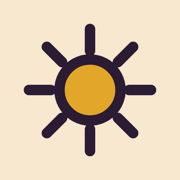
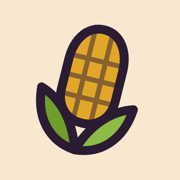
Corn theme: story cob, corn mark, kernel dividers
The hero shows a corn cob in which each kernel is one story and links
to it; darker gold means stronger evidence. The sun mark becomes a
corn cob, the wave dividers become kernel rows, the main button and
card shadows use corn colours, and the tab icon and link-preview
image match.

Claude-Session: https://claude.ai/code/session_01Ts6euTGNZG4fyBVVpUkAkK

Changed region(s): [[0.1111, 0.1111, 0.8889, 0.8889]]

diff --git a/index.html b/index.html
@@ -38,10 +38,11 @@
   --green:#4F7A22; --green-soft:#DCEBC3; --green-ink:#355514;
   --rust:#C8402E; --rust-soft:#FFD5CC; --rust-ink:#8E2A1D;
   --sky:#2F7FB8;
+  --husk:#6E9E2E; --husk-2:#8DBB45; --kern-a:#D98E0B; --kern-b:#EDB530; --kern-c:#F7DA7C;
   --dark:#2B1B33; --dark-text:#FFF1DC; --dark-muted:#D7BFAF; --dark-line:rgba(255,241,220,.22); --dark-border:transparent;
   --bar-off:#EFDDC0;
-  --shadow:6px 6px 0 var(--accent);
-  --shadow-hover:9px 9px 0 var(--purple);
+  --shadow:6px 6px 0 var(--mustard);
+  --shadow-hover:9px 9px 0 var(--husk);
   --r-lg:34px 14px 34px 14px; --r-md:22px 10px 22px 10px;
 }
 :root[data-theme="dark"]{
@@ -55,8 +56,8 @@
   --rust:#E86A55; --rust-soft:#4A221B; --rust-ink:#FFB3A3;
   --dark:#2E1F38; --dark-text:#FFF1DC; --dark-muted:#D7BFAF; --dark-line:rgba(255,241,220,.2); --dark-border:#4A365A;
   --bar-off:#3E2C4A;
-  --shadow:6px 6px 0 var(--accent);
-  --shadow-hover:9px 9px 0 var(--purple);
+  --shadow:6px 6px 0 var(--mustard);
+  --shadow-hover:9px 9px 0 var(--husk);
 }
 
 /* ---------- base ---------- */
@@ -84,15 +85,15 @@ dfn{font-style:normal;font-weight:800;color:var(--ink);background:var(--mustard-
 .hidden{display:none !important}
 .sr{position:absolute;width:1px;height:1px;overflow:hidden;clip:rect(0 0 0 0);white-space:nowrap}
 .ico{width:16px;height:16px;flex:none}
-.wave{display:block;width:100%;height:24px;color:var(--ink)}
+.wave{display:block;width:100%;height:22px;color:var(--ink)}
 
 /* ---------- buttons ---------- */
-.btn{display:inline-flex;align-items:center;justify-content:center;gap:8px;height:48px;padding:0 24px;border-radius:999px;background:var(--accent);color:var(--ink);font:inherit;font-size:15px;font-weight:800;border:2px solid var(--ink);box-shadow:3px 3px 0 var(--ink);cursor:pointer;text-decoration:none;white-space:nowrap;transition:transform .12s,box-shadow .12s,background .12s}
-.btn:hover{background:var(--mustard);color:var(--ink);transform:translate(-1px,-1px);box-shadow:5px 5px 0 var(--ink)}
+.btn{display:inline-flex;align-items:center;justify-content:center;gap:8px;height:48px;padding:0 24px;border-radius:999px;background:var(--mustard);color:var(--ink);font:inherit;font-size:15px;font-weight:800;border:2px solid var(--ink);box-shadow:3px 3px 0 var(--ink);cursor:pointer;text-decoration:none;white-space:nowrap;transition:transform .12s,box-shadow .12s,background .12s}
+.btn:hover{background:var(--husk-2);color:var(--ink);transform:translate(-1px,-1px);box-shadow:5px 5px 0 var(--ink)}
 .btn.ghost{background:var(--paper);color:var(--ink)}
 .btn.ghost:hover{background:var(--purple-soft);color:var(--ink)}
-.btn.dark{background:var(--ink);color:var(--bg);border-color:var(--ink);box-shadow:3px 3px 0 var(--accent)}
-.btn.dark:hover{background:var(--purple);color:#FFF1DC;box-shadow:5px 5px 0 var(--accent)}
+.btn.dark{background:var(--ink);color:var(--bg);border-color:var(--ink);box-shadow:3px 3px 0 var(--mustard)}
+.btn.dark:hover{background:var(--green);color:#FFF1DC;box-shadow:5px 5px 0 var(--mustard)}
 .btn.light{background:var(--mustard);color:#2B1B33;border-color:#2B1B33;box-shadow:3px 3px 0 #FFF1DC}
 .btn.light:hover{background:#FFF1DC;color:#2B1B33;box-shadow:5px 5px 0 #FFF1DC}
 .btn.sm{height:40px;padding:0 18px;font-size:14px}
@@ -103,9 +104,9 @@ dfn{font-style:normal;font-weight:800;color:var(--ink);background:var(--mustard-
 .topbar .wrap{display:flex;align-items:center;justify-content:space-between;gap:16px 24px;min-height:72px;padding-top:12px;padding-bottom:12px;flex-wrap:wrap}
 .wordmark{display:inline-flex;align-items:center;gap:10px;color:var(--ink);font-family:"Fraunces",Georgia,serif;font-weight:900;font-variation-settings:"opsz" 144,"SOFT" 100,"WONK" 1;font-size:24px;letter-spacing:-.01em}
 .wordmark:hover{color:var(--accent-ink)}
-.wordmark svg{width:32px;height:32px;flex:none;animation:spin 24s linear infinite}
-@keyframes spin{to{transform:rotate(360deg)}}
-@media (prefers-reduced-motion:reduce){.wordmark svg{animation:none}}
+.wordmark svg{width:34px;height:34px;flex:none;transform:rotate(14deg);transition:transform .2s}
+.wordmark:hover svg{transform:rotate(-8deg)}
+@media (prefers-reduced-motion:reduce){.wordmark svg{transition:none}}
 .topnav{display:flex;gap:4px;flex-wrap:wrap}
 .topnav a{color:var(--ink);font-size:15px;font-weight:700;padding:8px 14px;border-radius:999px;border:2px solid transparent}
 .topnav a:hover{border-color:var(--ink);background:var(--mustard-soft);color:var(--ink)}
@@ -113,19 +114,27 @@ dfn{font-style:normal;font-weight:800;color:var(--ink);background:var(--mustard-
 
 /* ---------- hero ---------- */
 .hero{padding:72px 0 56px;position:relative;overflow:hidden}
-.sun{position:absolute;right:-140px;top:-200px;width:620px;height:620px;border-radius:50%;pointer-events:none;background:
-  radial-gradient(circle,var(--mustard) 0 34%,transparent 35%),
-  repeating-conic-gradient(from 0deg,var(--accent) 0deg 9deg,transparent 9deg 22.5deg);opacity:.75}
-.sun::after{content:"";position:absolute;inset:0;border-radius:50%;background:radial-gradient(circle,transparent 0 33%,var(--bg) 34% 100%);opacity:0}
 .hero .wrap{position:relative}
-.hero-inner{display:grid;grid-template-columns:minmax(0,7fr) minmax(0,5fr);gap:20px 56px;align-items:end}
-.hero-inner .eyebrow{grid-column:1 / -1}
-.hero-inner h1{grid-column:1;grid-row:2 / span 2}
-.hero-inner .sub{grid-column:2;grid-row:2;align-self:end}
-.hero-inner .cta{grid-column:2;grid-row:3}
-@media (max-width:900px){.hero-inner{display:flex;flex-direction:column;align-items:flex-start;gap:22px;max-width:880px}.sun{width:380px;height:380px;right:-140px;top:-120px}}
+.hero-inner{display:grid;grid-template-columns:minmax(0,1fr) auto;gap:24px 64px;align-items:center}
+.hero-copy{display:flex;flex-direction:column;align-items:flex-start;gap:22px;min-width:0}
+.cob-wrap{display:flex;flex-direction:column;align-items:center;gap:16px;padding:0 36px 0 20px}
+.cob{--k:var(--kd,28px);display:flex;flex-direction:column;align-items:center;position:relative;padding-top:calc(var(--k)*.9);transform:rotate(9deg);transform-origin:50% 100%}
+.krow{display:flex;justify-content:center}
+.kern{box-sizing:border-box;display:block;width:var(--k);height:calc(var(--k)*.88);margin:-1px;border:2px solid var(--ink);border-radius:44% 44% 48% 48%;background:var(--kern-c);position:relative;transition:transform .12s}
+.kern::after{content:"";position:absolute;left:18%;top:16%;width:26%;height:20%;border-radius:50%;background:rgba(255,255,255,.55)}
+.kern.gA{background:var(--kern-a)}
+.kern.gB{background:var(--kern-b)}
+.kern.gC{background:var(--kern-c)}
+.kern.blank{background:var(--paper);border-style:dashed;border-color:var(--muted)}
+.kern.blank::after{display:none}
+a.kern:hover,a.kern:focus-visible{transform:scale(1.3);z-index:3;box-shadow:3px 3px 0 var(--ink);outline:none}
+.cob .silk{position:absolute;top:0;left:50%;width:calc(var(--k)*3.2);height:calc(var(--k)*1.5);transform:translateX(-50%);overflow:visible;stroke:var(--accent-ink)}
+.cob .husk{display:block;width:calc(var(--k)*var(--cols)*1.78);height:auto;margin-top:calc(var(--k)*var(--cols)*-.6);position:relative;z-index:1;overflow:visible;pointer-events:none}
+.cob-cap{margin:0;color:var(--muted);text-align:center;line-height:1.7}
+@media (max-width:900px){.hero-inner{grid-template-columns:minmax(0,1fr)}.cob-wrap{padding:8px 0 0}.cob{--k:min(var(--kd,26px),26px)}}
+@media (prefers-reduced-motion:reduce){.kern{transition:none}}
 .hero h1{font-size:clamp(44px,6.4vw,80px)}
-.hero h1 em{color:var(--accent);display:inline-block;transform:rotate(-2deg)}
+.hero h1 em{color:var(--green);display:inline-block;transform:rotate(-2deg)}
 .hero .sub{font-size:clamp(17px,1.3vw,19px);line-height:1.55;color:var(--lead);max-width:640px;margin:0;font-weight:600}
 .hero .cta{display:flex;gap:12px;flex-wrap:wrap}
 
@@ -350,11 +359,11 @@ noscript .box{padding:16px;margin:16px}
 </head>
 <body>
 <a class="skip" href="#app">Skip to content</a>
-<svg width="0" height="0" style="position:absolute" aria-hidden="true"><defs><pattern id="wavepat" width="48" height="24" patternUnits="userSpaceOnUse"><path d="M0 12 Q12 0 24 12 T48 12" fill="none" style="stroke:var(--ink)" stroke-width="3" stroke-linecap="round"/></pattern></defs></svg>
+<svg width="0" height="0" style="position:absolute" aria-hidden="true"><defs><pattern id="wavepat" width="26" height="22" patternUnits="userSpaceOnUse"><rect x="2" y="2" width="22" height="18" rx="8" style="fill:var(--kern-b);stroke:var(--ink)" stroke-width="2.5"/><ellipse cx="9" cy="7.5" rx="3" ry="1.8" fill="#fff" opacity=".5"/></pattern></defs></svg>
 <header class="topbar">
   <div class="wrap">
     <a class="wordmark" href="#/" aria-label="Monocorn, home">
-      <svg viewBox="0 0 32 32" aria-hidden="true"><g style="stroke:var(--ink)" stroke-width="2" stroke-linecap="round"><path d="M16 2v5M16 25v5M2 16h5M25 16h5M6.1 6.1l3.5 3.5M22.4 22.4l3.5 3.5M6.1 25.9l3.5-3.5M22.4 9.6l3.5-3.5"/></g><circle cx="16" cy="16" r="7" style="fill:var(--mustard);stroke:var(--ink)" stroke-width="2"/></svg>
+      <svg viewBox="0 0 32 32" aria-hidden="true"><path d="M16 2.5c3.7 0 6.2 3.4 6.2 8.3v6.6c0 4-2.5 6.6-6.2 6.6s-6.2-2.6-6.2-6.6v-6.6c0-4.9 2.5-8.3 6.2-8.3z" style="fill:var(--mustard);stroke:var(--ink)" stroke-width="2"/><path d="M10.4 9.6h11.2M9.9 14h12.2M10.2 18.4h11.6M14 3.6v19.8M18 3.6v19.8" fill="none" style="stroke:var(--ink)" stroke-width="1.1" opacity=".5"/><path d="M16 30.2c-5.8-.5-10-4.6-10.6-11.9 4.2 1.3 8.4 5 10.6 11.9z" style="fill:var(--husk);stroke:var(--ink)" stroke-width="2" stroke-linejoin="round"/><path d="M16 30.2c5.8-.5 10-4.6 10.6-11.9-4.2 1.3-8.4 5-10.6 11.9z" style="fill:var(--husk-2);stroke:var(--ink)" stroke-width="2" stroke-linejoin="round"/></svg>
       Monocorn
     </a>
     <nav class="topnav" aria-label="Site">
@@ -7231,6 +7240,43 @@ const SEARCH_ICO = `<svg class="ico" viewBox="0 0 16 16" fill="none" aria-hidden
 const WAVE = `<svg class="wave" aria-hidden="true"><rect width="100%" height="100%" fill="url(#wavepat)"/></svg>`;
 const PLUS_ICO = `<svg viewBox="0 0 40 40" fill="none" aria-hidden="true"><circle cx="20" cy="20" r="18" stroke="var(--line-strong)" stroke-width="1.5"/><path d="M20 12v16M12 20h16" stroke="var(--accent)" stroke-width="1.8" stroke-linecap="round"/></svg>`;
 
+// The story cob: one kernel per story, oldest at the base, newest near the tip.
+// Rows alternate between cols and cols - 1 kernels, which gives the brick pattern of a real cob.
+function cobHtml() {
+  const n = STORIES.length;
+  const cols = Math.max(5, Math.round(Math.sqrt(n / 3)));
+  const sizes = [];            // row sizes from the base upwards
+  const rowSize = j => (j % 2 === 0 ? cols : cols - 1);
+  sizes.push(rowSize(0), rowSize(1));   // two base rows sit inside the husk and hold no story
+  let cap = 0;
+  while (cap < n) { const z = rowSize(sizes.length); sizes.push(z); cap += z; }
+  const last = sizes[sizes.length - 1];
+  for (const d of [1, 2]) if (last - d >= 2) sizes.push(last - d);   // the tip
+  const k = Math.max(14, Math.min(34, Math.round(440 / sizes.length)));
+  let i = 0;
+  const rows = sizes.map((z, j) => {
+    let out = "";
+    for (let c = 0; c < z; c++) {
+      if (j < 2) { out += `<span class="kern gC"></span>`; continue; }
+      const s = STORIES[i++];
+      if (!s) { out += `<span class="kern blank"></span>`; continue; }
+      const label = `${esc(s.name)}: ${esc(s.sticker)}`;
+      out += k >= 24
+        ? `<a class="kern g${s.evidence}" href="#/story/${esc(s.slug)}" title="${label}" tabindex="-1"></a>`
+        : `<span class="kern g${s.evidence}" title="${label}"></span>`;
+    }
+    return `<div class="krow">${out}</div>`;
+  }).reverse().join("");
+  return `<div class="cob-wrap">
+    <div class="cob" style="--kd:${k}px;--cols:${cols}" aria-hidden="true">
+      <svg class="silk" viewBox="0 0 110 52" fill="none" stroke-width="3" stroke-linecap="round"><path d="M55 50C52 34 40 30 34 14"/><path d="M55 50C56 32 58 22 52 4"/><path d="M55 50C60 34 72 30 76 12"/><path d="M55 50C48 38 30 40 20 28"/><path d="M55 50C64 38 82 40 92 26"/></svg>
+      ${rows}
+      <svg class="husk" viewBox="0 0 320 190"><g style="stroke:var(--ink)" stroke-width="5" stroke-linejoin="round" stroke-linecap="round"><path style="fill:var(--husk)" d="M160 186C96 186 40 150 22 84C14 54 16 26 6 6C58 20 100 58 124 104C140 134 152 160 160 186Z"/><path style="fill:var(--husk)" d="M160 186C224 186 280 150 298 84C306 54 304 26 314 6C262 20 220 58 196 104C180 134 168 160 160 186Z"/><path style="fill:var(--husk-2)" d="M160 188C128 176 104 146 98 104C96 88 100 72 96 58C128 72 150 98 160 130C170 98 192 72 224 58C220 72 224 88 222 104C216 146 192 176 160 188Z"/><path fill="none" stroke-width="3.5" d="M160 186C158 164 156 148 160 130"/><path fill="none" stroke-width="3" d="M40 60C66 86 96 120 128 160M280 60C254 86 224 120 192 160"/></g></svg>
+    </div>
+    <p class="cob-cap mono">One kernel per story.<br>Darker gold means stronger evidence.</p>
+  </div>`;
+}
+
 function cardHtml(s) {
   const when = (s.outcomeLabel.split(",")[1] || s.outcomeLabel).trim();
   return `<a class="card" href="#/story/${esc(s.slug)}" aria-label="${esc(s.name)}: open the full story">
@@ -7279,18 +7325,20 @@ function renderList() {
   const plural = n === 1 ? "story" : "stories";
   app.innerHTML = `
   <section class="hero">
-    <span class="sun" aria-hidden="true"></span>
     <div class="wrap"><div class="hero-inner">
-      <span class="eyebrow mono">${n} ${plural} live · more coming</span>
-      <h1 class="display">AI businesses that made <em class="serif">real money.</em></h1>
-      <p class="sub">Verified stories of one-person AI businesses. Every number carries an evidence grade. Every story is paired with the failed startups that tried the same idea before.</p>
-      <div class="cta"><a class="btn" href="#/stories">Read the stories</a><a class="btn ghost" href="#/verify">How we verify ${ARROW_R}</a></div>
+      <div class="hero-copy">
+        <span class="eyebrow mono">${n} ${plural} on the cob · more coming</span>
+        <h1 class="display">AI businesses that made <em class="serif">real money.</em></h1>
+        <p class="sub">Verified stories of one-person AI businesses. Every number carries an evidence grade. Every story is paired with the failed startups that tried the same idea before.</p>
+        <div class="cta"><a class="btn" href="#/stories">Read the stories</a><a class="btn ghost" href="#/verify">How we verify ${ARROW_R}</a></div>
+      </div>
+      ${cobHtml()}
     </div></div>
   </section>
   <div class="wrap">
     <section class="sec" id="stories">
       <div class="controls">
-        <div class="sec-head"><span class="mono accent">Stories</span><h2 class="display">Verified, one by one</h2></div>
+        <div class="sec-head"><span class="mono accent">Stories</span><h2 class="display">Verified, kernel by kernel</h2></div>
         <label class="search-wrap">${SEARCH_ICO}<span class="sr">Search stories</span><input id="q" class="search" type="search" placeholder="Search stories" value="${esc(state.q)}" autocomplete="off"></label>
       </div>
       <div class="filters">
